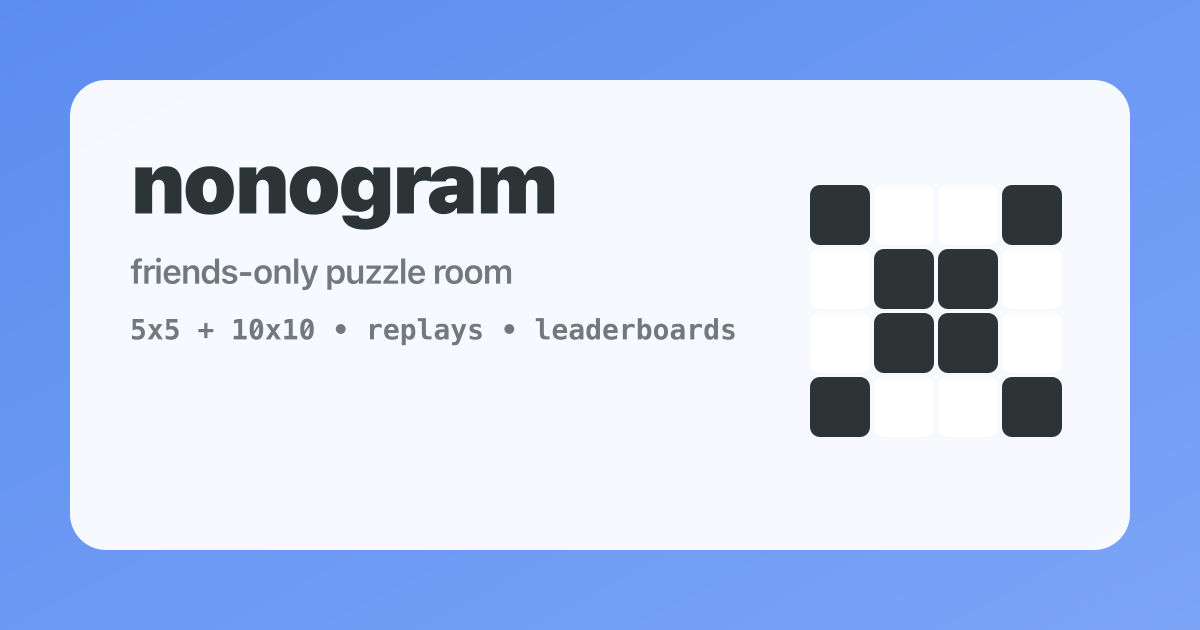
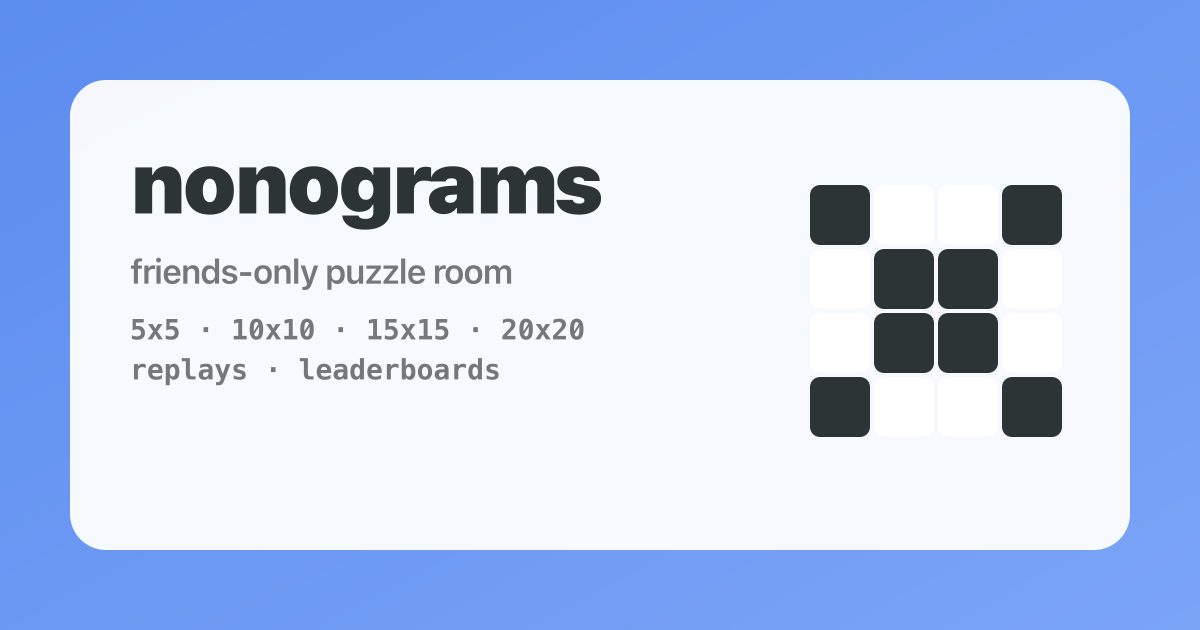
Rename title to "nonograms" and update OG assets
Update title, OG tags, Twitter cards, manifest, share page, brand
heading, and OG image to use "nonograms" (plural). Split the features
line in og.svg into two rows to avoid overlapping the grid diagram.
Regenerate og.png.

diff --git a/index.html b/index.html
@@ -3,14 +3,14 @@
   <head>
     <meta charset="UTF-8" />
     <meta name="viewport" content="width=device-width, initial-scale=1.0" />
-    <title>Nonogram</title>
+    <title>Nonograms</title>
     <meta name="description" content="Friends-only nonogram puzzle room with replays and leaderboards." />
 
     <!-- Canonical / Social -->
     <link rel="canonical" href="https://nonograms.siraben.dev/" />
-    <meta property="og:site_name" content="Nonogram" />
+    <meta property="og:site_name" content="Nonograms" />
     <meta property="og:type" content="website" />
-    <meta property="og:title" content="Nonogram" />
+    <meta property="og:title" content="Nonograms" />
     <meta property="og:description" content="Friends-only nonogram puzzle room with replays and leaderboards." />
     <meta property="og:url" content="https://nonograms.siraben.dev/" />
     <meta property="og:image" content="https://nonograms.siraben.dev/og.png" />
@@ -18,7 +18,7 @@
     <meta property="og:image:height" content="630" />
 
     <meta name="twitter:card" content="summary_large_image" />
-    <meta name="twitter:title" content="Nonogram" />
+    <meta name="twitter:title" content="Nonograms" />
     <meta name="twitter:description" content="Friends-only nonogram puzzle room with replays and leaderboards." />
     <meta name="twitter:image" content="https://nonograms.siraben.dev/og.png" />
 

diff --git a/functions/s/[attemptId].ts b/functions/s/[attemptId].ts
@@ -37,8 +37,8 @@ export const onRequestGet: PagesFunction<Env> = async ({ env, request, params })
 <html lang="en">
 <head>
 <meta charset="UTF-8">
-<title>${title} — Nonogram</title>
-<meta property="og:site_name" content="Nonogram" />
+<title>${title} — Nonograms</title>
+<meta property="og:site_name" content="Nonograms" />
 <meta property="og:type" content="website" />
 <meta property="og:title" content="${title}" />
 <meta property="og:description" content="${desc}" />

diff --git a/src/App.tsx b/src/App.tsx
@@ -271,7 +271,7 @@ export default function App() {
     <div className="shell">
       <div className="topbar">
         <div className="brand" onClick={() => nav("/")}>
-          <h1>nonogram</h1>
+          <h1>nonograms</h1>
           <div className="tag">friends-only puzzle room</div>
         </div>
         <div className="topbar-right">
